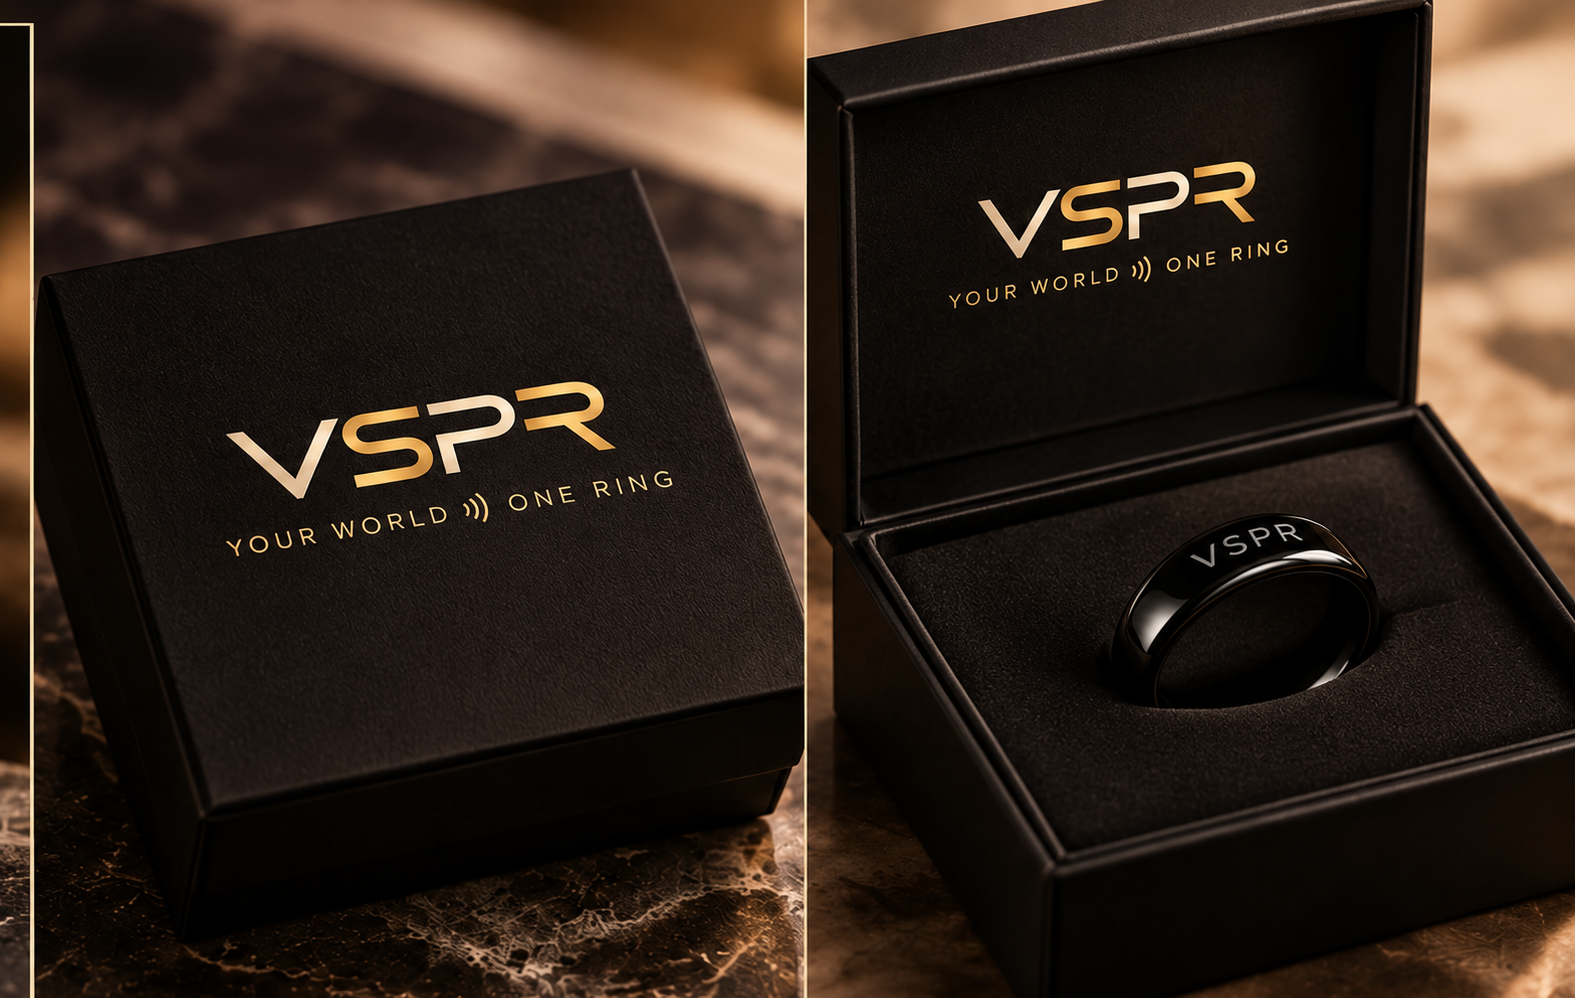
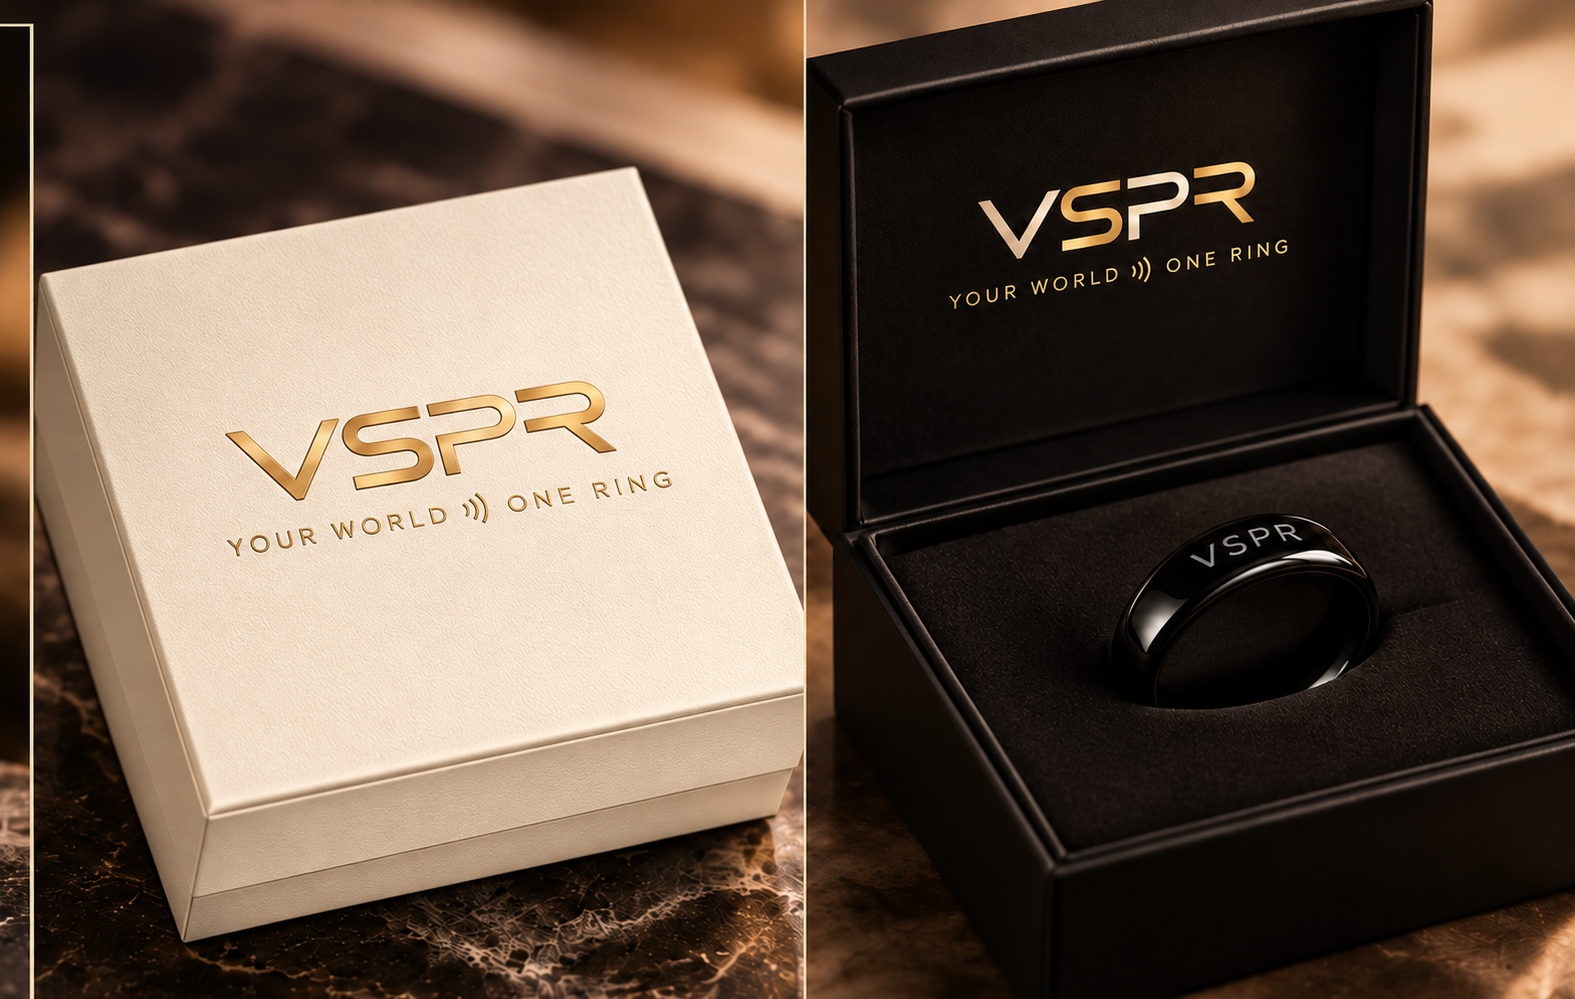
Add files via upload

diff --git a/index.html b/index.html
@@ -10,7 +10,7 @@
 <body>
   <header class="site-header" data-header>
     <a class="brand" href="#top" aria-label="VSPR home">
-      <img src="vspr-lockup.png" alt="VSPR">
+      <img src="vspr-header-logo.png" alt="VSPR">
     </a>
     <button class="nav-toggle" type="button" aria-label="Open menu" aria-expanded="false" data-nav-toggle>
       <span></span>
@@ -198,32 +198,32 @@
       </div>
       <div class="feature-grid">
         <article>
-          <span aria-hidden="true">&#128246;</span>
+          <span class="feature-icon" aria-hidden="true"><svg viewBox="0 0 48 48"><circle cx="14" cy="24" r="3"></circle><path d="M20 17c4 4 4 10 0 14M26 11c8 7 8 19 0 26M32 6c11 10 11 26 0 36"></path></svg></span>
           <h3>Instant contactless payment</h3>
           <p>Works with NFC-enabled payment terminals globally. Accepted anywhere Mastercard and Visa contactless payments are supported.</p>
         </article>
         <article>
-          <span aria-hidden="true">&#128267;</span>
+          <span class="feature-icon" aria-hidden="true"><svg viewBox="0 0 48 48"><rect x="9" y="15" width="27" height="18" rx="3"></rect><path d="M36 21h4v6h-4M7 39 41 5"></path></svg></span>
           <h3>Zero battery, forever</h3>
           <p>Passive NFC draws power directly from the payment reader's field. VSPR requires no charging, no battery replacement, and no app running in the background.</p>
         </article>
         <article>
-          <span aria-hidden="true">&#128274;</span>
+          <span class="feature-icon" aria-hidden="true"><svg viewBox="0 0 48 48"><path d="M24 5 39 11v11c0 10-6 17-15 21C15 39 9 32 9 22V11l15-6Z"></path><path d="m17 24 5 5 10-11"></path></svg></span>
           <h3>Bank-grade security</h3>
           <p>Transactions are tokenised and encrypted like a contactless card. Your actual card number is never transmitted, with payment handling designed around PCI-DSS compliant infrastructure.</p>
         </article>
         <article>
-          <span aria-hidden="true">&#128167;</span>
-          <h3>IP68 water resistant</h3>
-          <p>Swim, shower, and train with confidence. VSPR is rated IP68, with a ceramic shell made for water, sweat, and daily life.</p>
+          <span class="feature-icon" aria-hidden="true"><svg viewBox="0 0 48 48"><path d="M5 22c5-5 9-5 14 0s9 5 14 0 8-5 10-2M5 31c5-5 9-5 14 0s9 5 14 0 8-5 10-2"></path></svg></span>
+          <h3>Water resistant</h3>
+          <p>Made for everyday water exposure—from hand washing and showers to swimming in the pool or sea—with a ceramic shell suited to sweat and daily life.</p>
         </article>
         <article>
-          <span aria-hidden="true">&#128142;</span>
+          <span class="feature-icon" aria-hidden="true"><svg viewBox="0 0 48 48"><path d="m7 18 8-11h18l8 11-17 24L7 18Z"></path><path d="m7 18 17 24 17-24M15 7l9 35 9-35M7 18h34"></path></svg></span>
           <h3>Jewellery-grade finish</h3>
           <p>Precision-fired zirconia ceramic is harder than steel, lighter than titanium, and maintains a flawless mirror or matte finish.</p>
         </article>
         <article>
-          <span aria-hidden="true">&#127758;</span>
+          <span class="feature-icon" aria-hidden="true"><svg viewBox="0 0 48 48"><circle cx="24" cy="24" r="18"></circle><path d="M6 24h36M24 6c6 5 9 11 9 18s-3 13-9 18c-6-5-9-11-9-18s3-13 9-18Z"></path></svg></span>
           <h3>Works worldwide</h3>
           <p>From London to Tokyo, New York to Sydney, VSPR works wherever compatible contactless payment terminals are available, with no fumbling for the right card.</p>
         </article>
@@ -295,12 +295,12 @@
 
     <section class="section packaging">
       <div class="packaging-image">
-        <img src="vspr-packaging.png" alt="VSPR premium black presentation box with NFC payment ring">
+        <img src="vspr-packaging.png" alt="VSPR warm ivory and black presentation boxes with NFC payment ring">
       </div>
       <div class="packaging-copy">
         <p class="eyebrow">Unboxing</p>
         <h2>Premium from first touch.</h2>
-        <p>The product should feel considered before it ever reaches a payment terminal. VSPR arrives in a giftable black presentation box with refined gold detailing that matches the jewellery-first positioning.</p>
+        <p>The product should feel considered before it ever reaches a payment terminal. VSPR arrives in a giftable warm ivory or black presentation box with refined gold detailing that matches the jewellery-first positioning.</p>
       </div>
     </section>
 

diff --git a/styles.css b/styles.css
@@ -493,6 +493,16 @@ h3 {
   width: 54px;
 }
 
+.feature-grid .feature-icon svg {
+  fill: none;
+  height: 31px;
+  stroke: var(--gold-soft);
+  stroke-linecap: round;
+  stroke-linejoin: round;
+  stroke-width: 1.8;
+  width: 31px;
+}
+
 .feature-grid h3 {
   color: var(--gold-soft);
   font-size: 1rem;
@@ -1215,8 +1225,8 @@ details p a {
   padding: 0;
 }
 .collection-reveal-image img {
-  background: #f4f3f1;
-  object-fit: contain;
+  background: #000;
+  object-fit: cover;
   min-height: 420px;
 }
 .packaging-image img {
@@ -1227,8 +1237,8 @@ details p a {
 /* VSPR approved identity system — September 2026
    Primary: SIGNAL narrow wordmark. Secondary: PURE narrow wordmark. */
 .brand img {
-  height: 42px;
-  width: 176px;
+  height: 58px;
+  width: auto;
   object-fit: contain;
   mix-blend-mode: screen;
 }
@@ -1245,7 +1255,7 @@ details p a {
   mix-blend-mode: screen;
 }
 @media (max-width: 720px) {
-  .brand img { height: 34px; width: 142px; }
+  .brand img { height: 46px; width: auto; }
   .final-cta > img { width: min(560px, 94vw); }
   .site-footer > img { width: min(360px, 90vw); }
   .collection-reveal-image img { min-height: 280px; }

diff --git a/policies.html b/policies.html
@@ -10,7 +10,7 @@
 <body class="policy-page">
   <header class="policy-header">
     <a class="brand" href="index.html" aria-label="VSPR home">
-      <img src="vspr-lockup.png" alt="VSPR">
+      <img src="vspr-header-logo.png" alt="VSPR">
     </a>
     <nav class="policy-nav" aria-label="Policy sections">
       <a href="index.html">Home</a>

diff --git a/README.md b/README.md
@@ -22,13 +22,14 @@ The folder can be deployed without a build step to GitHub Pages, Netlify, Cloudf
 2. **Customer-service email:** `davidr@paywithringo.com` is retained only because it is the current published operator contact. Replace it only with a confirmed VSPR mailbox that is actively monitored.
 3. **Effective dates and policies:** confirm the June 2026 effective date, 30-day returns, complimentary size exchange, UK delivery times and governing-law wording with the operator or legal adviser.
 4. **VSPR checkout:** the old payment links were deliberately removed because they may display the former branding or product descriptions. Add VSPR-specific Stripe Payment Links in `script.js` after checking product names, price, tax, shipping, customer emails, cancellation wording and statement descriptor.
-5. **Product claims:** independently confirm IP68, material composition, card/service compatibility, territories and PCI-DSS-related wording against the final supplier and payment partner documentation.
+5. **Product claims:** independently confirm the water-resistance wording, material composition, card/service compatibility, territories and PCI-DSS-related wording against the final supplier and payment partner documentation.
 6. **Partner links:** confirm the Manage-Mii and Curve links, affiliate parameters and regional availability remain approved for VSPR.
 7. **Quote permission:** confirm the Elmer Funke Kupper quotation may be used for VSPR and is accurately attributed.
 
 ## Brand assets
 
 - `vspr-lockup.png` uses the approved champagne-gold S/R, ivory V/P, contactless mark in the tagline and no final full stop.
-- `vspr-collection.png` is the supplied four-finish render.
+- `vspr-header-logo.png` is a tightly cropped wordmark specifically for a larger, more prominent navigation logo.
+- `vspr-collection.png` is the upright four-finish campaign render, based on the supplied finishes and with VSPR on every outside face.
 - The four product-card images are crops of that supplied render, so every ring shows `VSPR` on its outside face.
-- `vspr-packaging.png` is a VSPR packaging visual derived from the live site's composition; obtain production artwork before manufacture.
+- `vspr-packaging.png` shows the warm ivory and black VSPR presentation-box options; obtain production artwork before manufacture.
